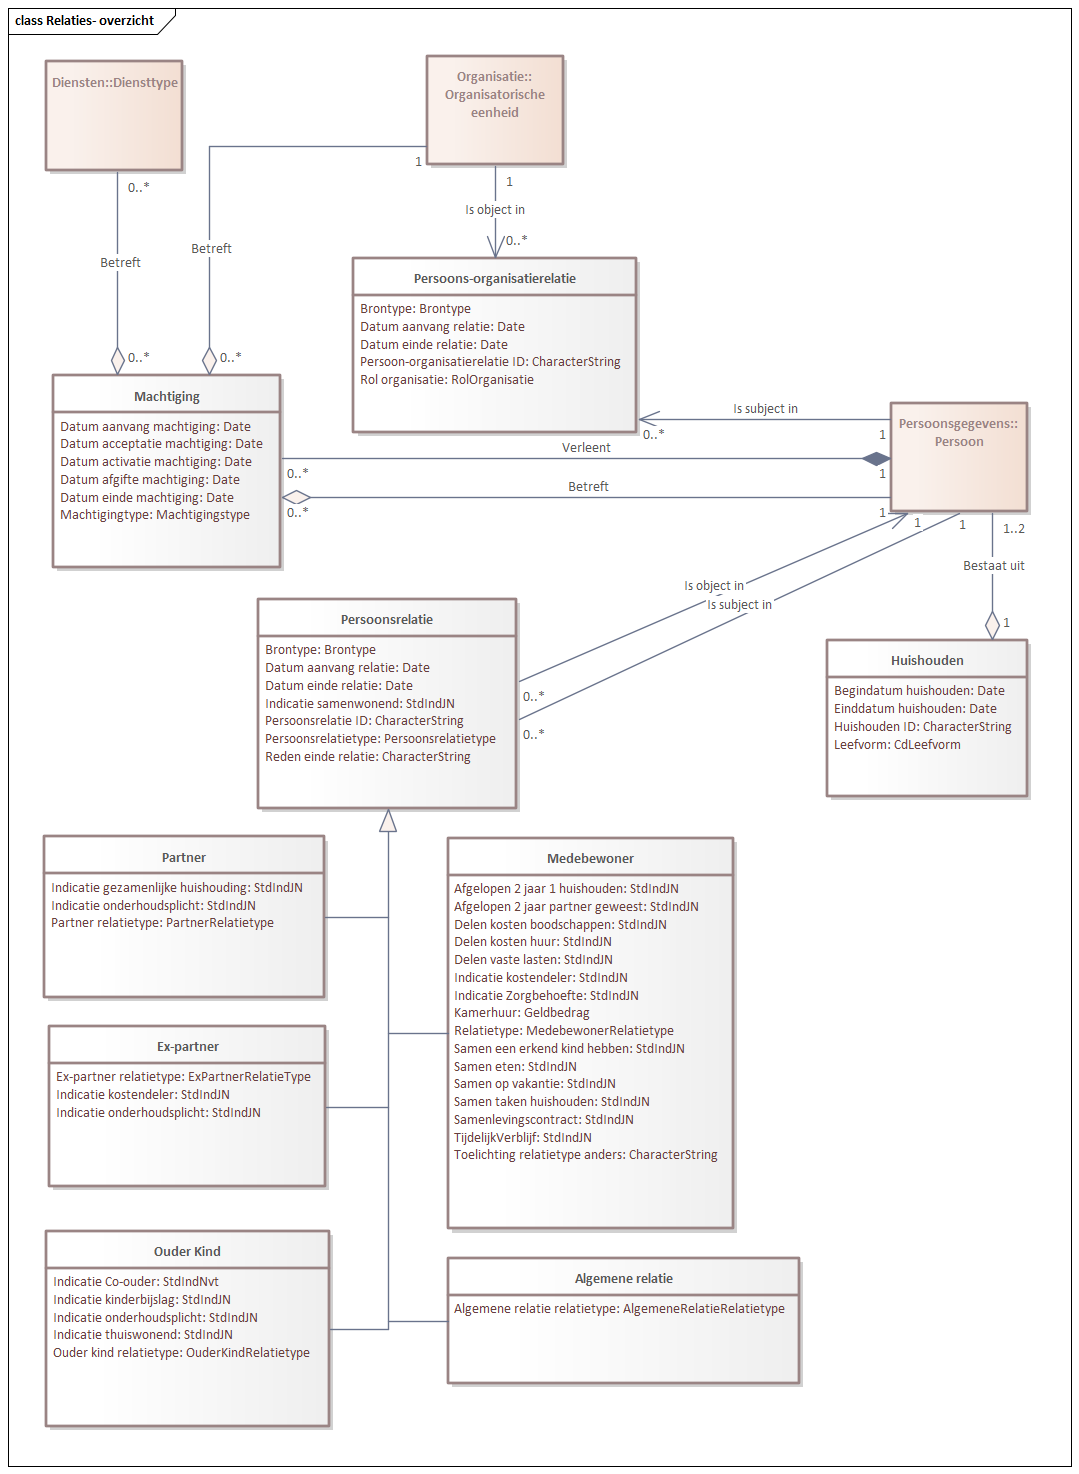
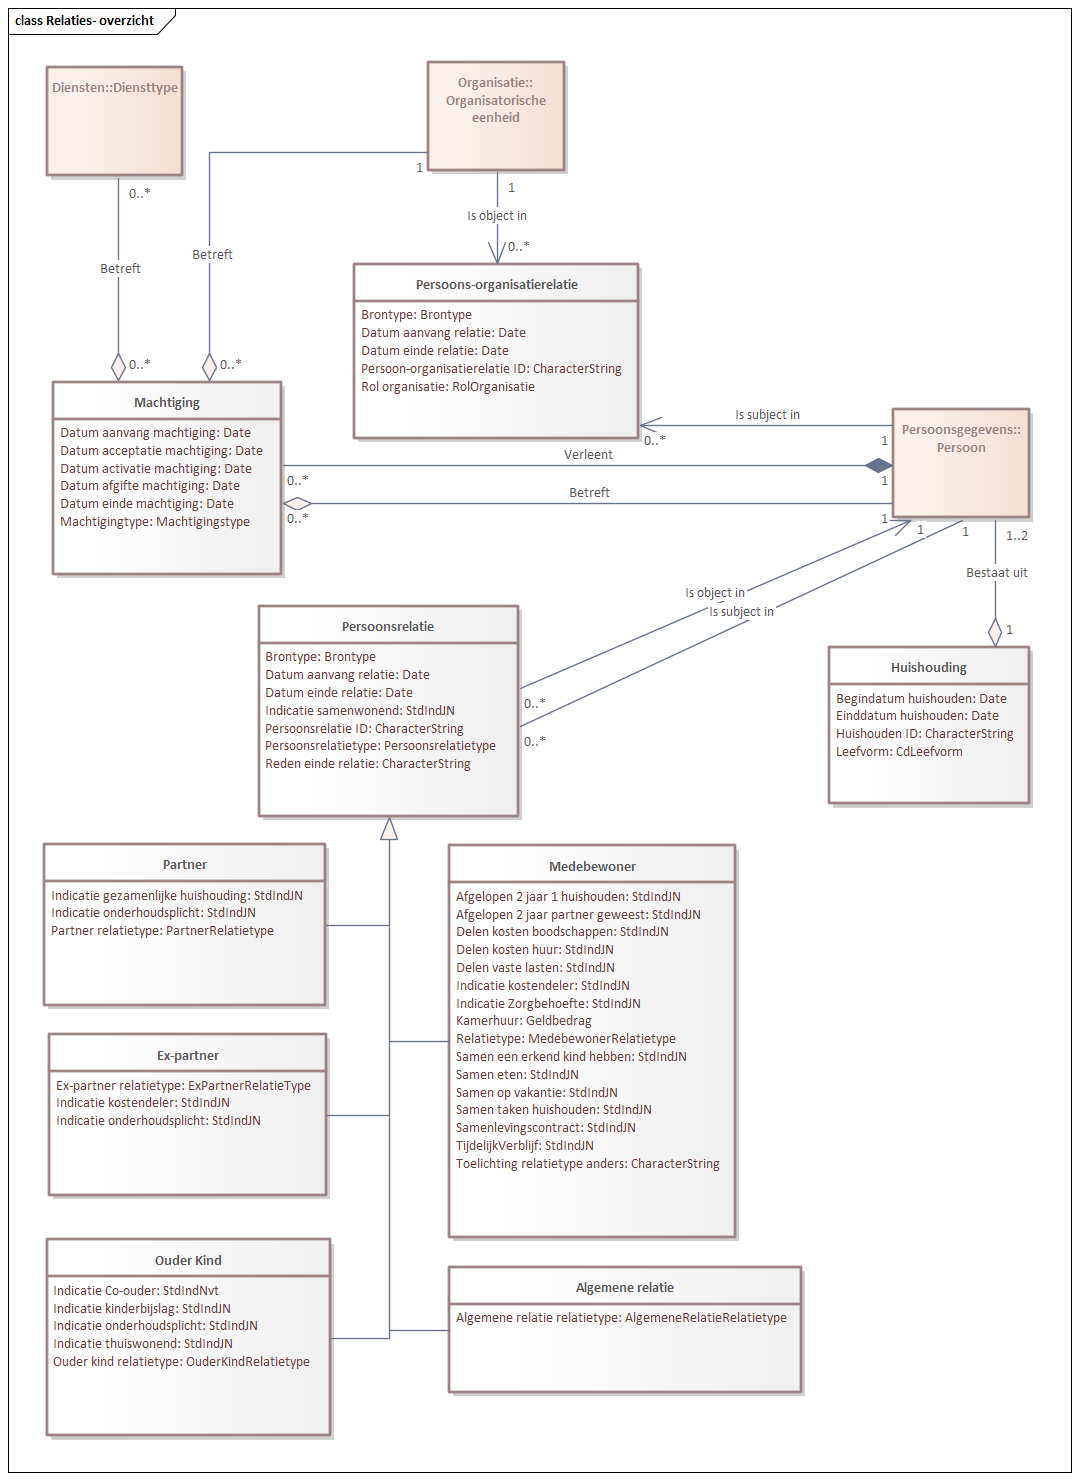
a

Changed region(s): [[0.0306, 0.0312, 0.9787, 0.9986], [0.4282, 0.9362, 0.734, 0.9674], [0.1835, 0.156, 0.2141, 0.1872]]

diff --git a/relaties.html b/relaties.html
@@ -1,7 +1,7 @@
          <h2>Gegevensdefinitie</h2>
          <p><b>Deze tekst is normatief.</b>
-            <!--SIM-InkomenModellen-1.0-1-20230101-20250317-134955 imvertor 4.0.0--></p>
-         <div class="imageinfo overview"><img src="Images/EAID_B1D43AF1_5E59_4a55_9CE7_0F817C44F7E5.png" usemap="#imagemap-EAID_B1D43AF1_5E59_4a55_9CE7_0F817C44F7E5" alt="Diagram: Relaties- overzicht"><map name="imagemap-EAID_B1D43AF1_5E59_4a55_9CE7_0F817C44F7E5"><area shape="rect" alt="Diensten::Diensttype" coords="46,61,183,171" href="#global_class_Relaties_DienstenDiensttype"><area shape="rect" alt="Organisatie::Organisatorische eenheid" coords="427,56,564,165" href="#global_class_Relaties_OrganisatieOrganisatorischeeenheid"><area shape="rect" alt="Persoonsgegevens::Persoon" coords="891,403,1028,512" href="#global_class_Relaties_PersoonsgegevensPersoon"><area shape="rect" alt="Persoonsrelatie" coords="258,599,517,809" href="#global_class_Relaties_Persoonsrelatie"><area shape="rect" alt="Persoons-organisatierelatie" coords="353,258,637,433" href="#global_class_Relaties_Persoonsorganisatierelatie"><area shape="rect" alt="Partner" coords="44,836,325,998" href="#global_class_Relaties_Partner"><area shape="rect" alt="Ouder Kind" coords="46,1231,330,1427" href="#global_class_Relaties_OuderKind"><area shape="rect" alt="Medebewoner" coords="448,838,734,1229" href="#global_class_Relaties_Medebewoner"><area shape="rect" alt="Huishouden" coords="827,640,1028,797" href="#global_class_Relaties_Huishouden"><area shape="rect" alt="Ex-partner" coords="49,1026,326,1187" href="#global_class_Relaties_Expartner"><area shape="rect" alt="Algemene relatie" coords="448,1258,800,1384" href="#global_class_Relaties_Algemenerelatie"><area shape="rect" alt="Machtiging" coords="53,375,281,568" href="#global_class_Relaties_Machtiging"></map><p><b>Relaties- overzicht</b>
+            <!--SIM-InkomenModellen-1.0-1-20230101-20250523-142619 imvertor 4.0.0--></p>
+         <div class="imageinfo overview"><img src="Images/EAID_B1D43AF1_5E59_4a55_9CE7_0F817C44F7E5.png" usemap="#imagemap-EAID_B1D43AF1_5E59_4a55_9CE7_0F817C44F7E5" alt="Diagram: Relaties- overzicht"><map name="imagemap-EAID_B1D43AF1_5E59_4a55_9CE7_0F817C44F7E5"><area shape="rect" alt="Diensten::Diensttype" coords="47,67,183,176" href="#global_class_Relaties_DienstenDiensttype"><area shape="rect" alt="Organisatie::Organisatorische eenheid" coords="428,62,565,171" href="#global_class_Relaties_OrganisatieOrganisatorischeeenheid"><area shape="rect" alt="Persoonsgegevens::Persoon" coords="893,409,1030,518" href="#global_class_Relaties_PersoonsgegevensPersoon"><area shape="rect" alt="Persoonsrelatie" coords="259,606,519,817" href="#global_class_Relaties_Persoonsrelatie"><area shape="rect" alt="Persoons-organisatierelatie" coords="354,264,639,439" href="#global_class_Relaties_Persoonsorganisatierelatie"><area shape="rect" alt="Partner" coords="44,844,326,1006" href="#global_class_Relaties_Partner"><area shape="rect" alt="Ouder Kind" coords="47,1239,331,1436" href="#global_class_Relaties_OuderKind"><area shape="rect" alt="Medebewoner" coords="449,845,736,1238" href="#global_class_Relaties_Medebewoner"><area shape="rect" alt="Huishouding" coords="829,647,1030,804" href="#global_class_Relaties_Huishouding"><area shape="rect" alt="Ex-partner" coords="49,1034,327,1196" href="#global_class_Relaties_Expartner"><area shape="rect" alt="Algemene relatie" coords="449,1267,802,1393" href="#global_class_Relaties_Algemenerelatie"><area shape="rect" alt="Machtiging" coords="53,382,282,575" href="#global_class_Relaties_Machtiging"></map><p><b>Relaties- overzicht</b>
                
                <p></p>
                </p>
@@ -311,8 +311,8 @@
                
                </section>
             
-            <section id="global_class_Relaties_Huishouden">
-               <h4>   Huishouden</h4>
+            <section id="global_class_Relaties_Huishouding">
+               <h4>   Huishouding</h4>
                
                <table style="width: 100%;">
                   <colgroup style="width: 30%;"></colgroup>
@@ -320,7 +320,7 @@
                   <tbody>
                      <tr>
                         <th>Naam</th>
-                        <td>Huishouden</td>
+                        <td>Huishouding</td>
                      </tr>
                      <tr>
                         <th>Herkomst</th>
@@ -328,7 +328,11 @@
                      </tr>
                      <tr>
                         <th>Definitie</th>
-                        <td>Het huishouden van een persoon.Bron: GBI-Werkgroep Ontologie Inkomen</td>
+                        <td>Eén of twee personen, al dan niet met hun biologische, geadopteerde, pleeg- en/of
+                           kleinkinderen, die gebruik maken van één (bedrijfs- of tussen)woning, woonhuis of
+                           een woning in een woongebouw en blijk geven zorg te dragen voor elkaar door middel
+                           van het leveren van een bijdrage in de kosten van de huishouding dan wel anderszins.
+                           (Art. 3 PW Wet)</td>
                      </tr>
                      <tr>
                         <th>Herkomst definitie</th>
@@ -365,7 +369,7 @@
                      </tr>
                      <tr>
                         <td>
-                           <a class="link" href="#detail_attribute_Relaties_Huishouden_Begindatumhuishouden">Begindatum huishouden</a>
+                           <a class="link" href="#detail_attribute_Relaties_Huishouding_Begindatumhuishouden">Begindatum huishouden</a>
                            </td>
                         <td>De datum waarop het huishouden is gevormd.Bron: GBI-Werkgroep Ontologie Inkomen</td>
                         <td>
@@ -375,7 +379,7 @@
                      </tr>
                      <tr>
                         <td>
-                           <a class="link" href="#detail_attribute_Relaties_Huishouden_Einddatumhuishouden">Einddatum huishouden</a>
+                           <a class="link" href="#detail_attribute_Relaties_Huishouding_Einddatumhuishouden">Einddatum huishouden</a>
                            </td>
                         <td>De datum waarop het huishouden is beeindigd.Bron: GBI-Werkgroep Ontologie Inkomen</td>
                         <td>
@@ -385,7 +389,7 @@
                      </tr>
                      <tr>
                         <td>
-                           <a class="link" href="#detail_attribute_Relaties_Huishouden_HuishoudenID">Huishouden ID</a>
+                           <a class="link" href="#detail_attribute_Relaties_Huishouding_HuishoudenID">Huishouden ID</a>
                            </td>
                         <td>Uniek nummer toegekend door het systeem, zodat een huishouden kan worden geidentificeerd.Bron:
                            GBI-Werkgroep Ontologie Inkomen</td>
@@ -396,7 +400,7 @@
                      </tr>
                      <tr>
                         <td>
-                           <a class="link" href="#detail_attribute_Relaties_Huishouden_Leefvorm">Leefvorm</a>
+                           <a class="link" href="#detail_attribute_Relaties_Huishouding_Leefvorm">Leefvorm</a>
                            </td>
                         <td></td>
                         <td>
@@ -427,7 +431,7 @@
                            
                            <a class="link" href="#detail_association_Relaties_PersoonsgegevensPersoon_Bestaatuit">Bestaat uit</a>
                            
-                           Huishouden
+                           Huishouding
                            [ 1 ]
                            </td>
                         <td></td>
@@ -1457,7 +1461,7 @@
                            <a class="link" href="#detail_association_Relaties_PersoonsgegevensPersoon_Bestaatuit">Bestaat uit</a>
                            
                            
-                           <a class="link" href="#global_class_Relaties_Huishouden">Huishouden</a>
+                           <a class="link" href="#global_class_Relaties_Huishouding">Huishouding</a>
                            
                            [ 1 ]
                            </td>
@@ -2518,11 +2522,11 @@
                      </section>
                   </section>
                
-               <section id="detail_class_Relaties_Huishouden">
-                  <h5>   Huishouden</h5>
+               <section id="detail_class_Relaties_Huishouding">
+                  <h5>   Huishouding</h5>
                   
-                  <section id="detail_attribute_Relaties_Huishouden_Begindatumhuishouden">
-                     <h6>Attribuutsoort details  <a href="#global_class_Relaties_Huishouden">Huishouden</a> Begindatum huishouden</h6>
+                  <section id="detail_attribute_Relaties_Huishouding_Begindatumhuishouden">
+                     <h6>Attribuutsoort details  <a href="#global_class_Relaties_Huishouding">Huishouding</a> Begindatum huishouden</h6>
                      
                      <table style="width: 100%;">
                         <colgroup style="width: 30%;"></colgroup>
@@ -2586,8 +2590,8 @@
                      </table>
                      </section>
                   
-                  <section id="detail_attribute_Relaties_Huishouden_Einddatumhuishouden">
-                     <h6>Attribuutsoort details  <a href="#global_class_Relaties_Huishouden">Huishouden</a> Einddatum huishouden</h6>
+                  <section id="detail_attribute_Relaties_Huishouding_Einddatumhuishouden">
+                     <h6>Attribuutsoort details  <a href="#global_class_Relaties_Huishouding">Huishouding</a> Einddatum huishouden</h6>
                      
                      <table style="width: 100%;">
                         <colgroup style="width: 30%;"></colgroup>
@@ -2651,8 +2655,8 @@
                      </table>
                      </section>
                   
-                  <section id="detail_attribute_Relaties_Huishouden_HuishoudenID">
-                     <h6>Attribuutsoort details  <a href="#global_class_Relaties_Huishouden">Huishouden</a> Huishouden ID</h6>
+                  <section id="detail_attribute_Relaties_Huishouding_HuishoudenID">
+                     <h6>Attribuutsoort details  <a href="#global_class_Relaties_Huishouding">Huishouding</a> Huishouden ID</h6>
                      
                      <table style="width: 100%;">
                         <colgroup style="width: 30%;"></colgroup>
@@ -2716,8 +2720,8 @@
                      </table>
                      </section>
                   
-                  <section id="detail_attribute_Relaties_Huishouden_Leefvorm">
-                     <h6>Attribuutsoort details  <a href="#global_class_Relaties_Huishouden">Huishouden</a> Leefvorm</h6>
+                  <section id="detail_attribute_Relaties_Huishouding_Leefvorm">
+                     <h6>Attribuutsoort details  <a href="#global_class_Relaties_Huishouding">Huishouding</a> Leefvorm</h6>
                      
                      <table style="width: 100%;">
                         <colgroup style="width: 30%;"></colgroup>
@@ -5411,7 +5415,7 @@
                            <tr>
                               <th>Gerelateerd objecttype</th>
                               <td>
-                                 <a class="link" href="#global_class_Relaties_Huishouden">Huishouden</a>
+                                 <a class="link" href="#global_class_Relaties_Huishouding">Huishouding</a>
                                  </td>
                            </tr>
                            <tr>
@@ -6081,11 +6085,11 @@
                            <th>Omschrijving</th>
                         </tr>
                         <tr>
-                           <td>alleenstaande</td>
+                           <td>onbekend</td>
                            <td></td>
                         </tr>
                         <tr>
-                           <td>anders</td>
+                           <td>alleenstaande</td>
                            <td></td>
                         </tr>
                         <tr>
@@ -6093,15 +6097,15 @@
                            <td></td>
                         </tr>
                         <tr>
-                           <td>gehuwd/ongehuwd samenwonend</td>
+                           <td>samenwonend met partner met samenlevingscontract</td>
                            <td></td>
                         </tr>
                         <tr>
-                           <td>niet gespecificeerd (niet gevoerd in de administratie)</td>
+                           <td>samenwonend met partner zonder samenlevingscontract</td>
                            <td></td>
                         </tr>
                         <tr>
-                           <td>onbekend</td>
+                           <td>samenwonend met inkomensafhankelijke kinderen</td>
                            <td></td>
                         </tr>
                         <tr>
@@ -6113,15 +6117,19 @@
                            <td></td>
                         </tr>
                         <tr>
-                           <td>samenwonend met inkomensafhankelijke kinderen</td>
+                           <td>Inwonend bij (pleeg-)ouders</td>
                            <td></td>
                         </tr>
                         <tr>
-                           <td>samenwonend met partner met samenlevingscontract</td>
+                           <td>gehuwd/ongehuwd samenwonend</td>
                            <td></td>
                         </tr>
                         <tr>
-                           <td>samenwonend met partner zonder samenlevingscontract</td>
+                           <td>anders</td>
+                           <td></td>
+                        </tr>
+                        <tr>
+                           <td>niet gespecificeerd (niet gevoerd in de administratie)</td>
                            <td></td>
                         </tr>
                      </tbody>
